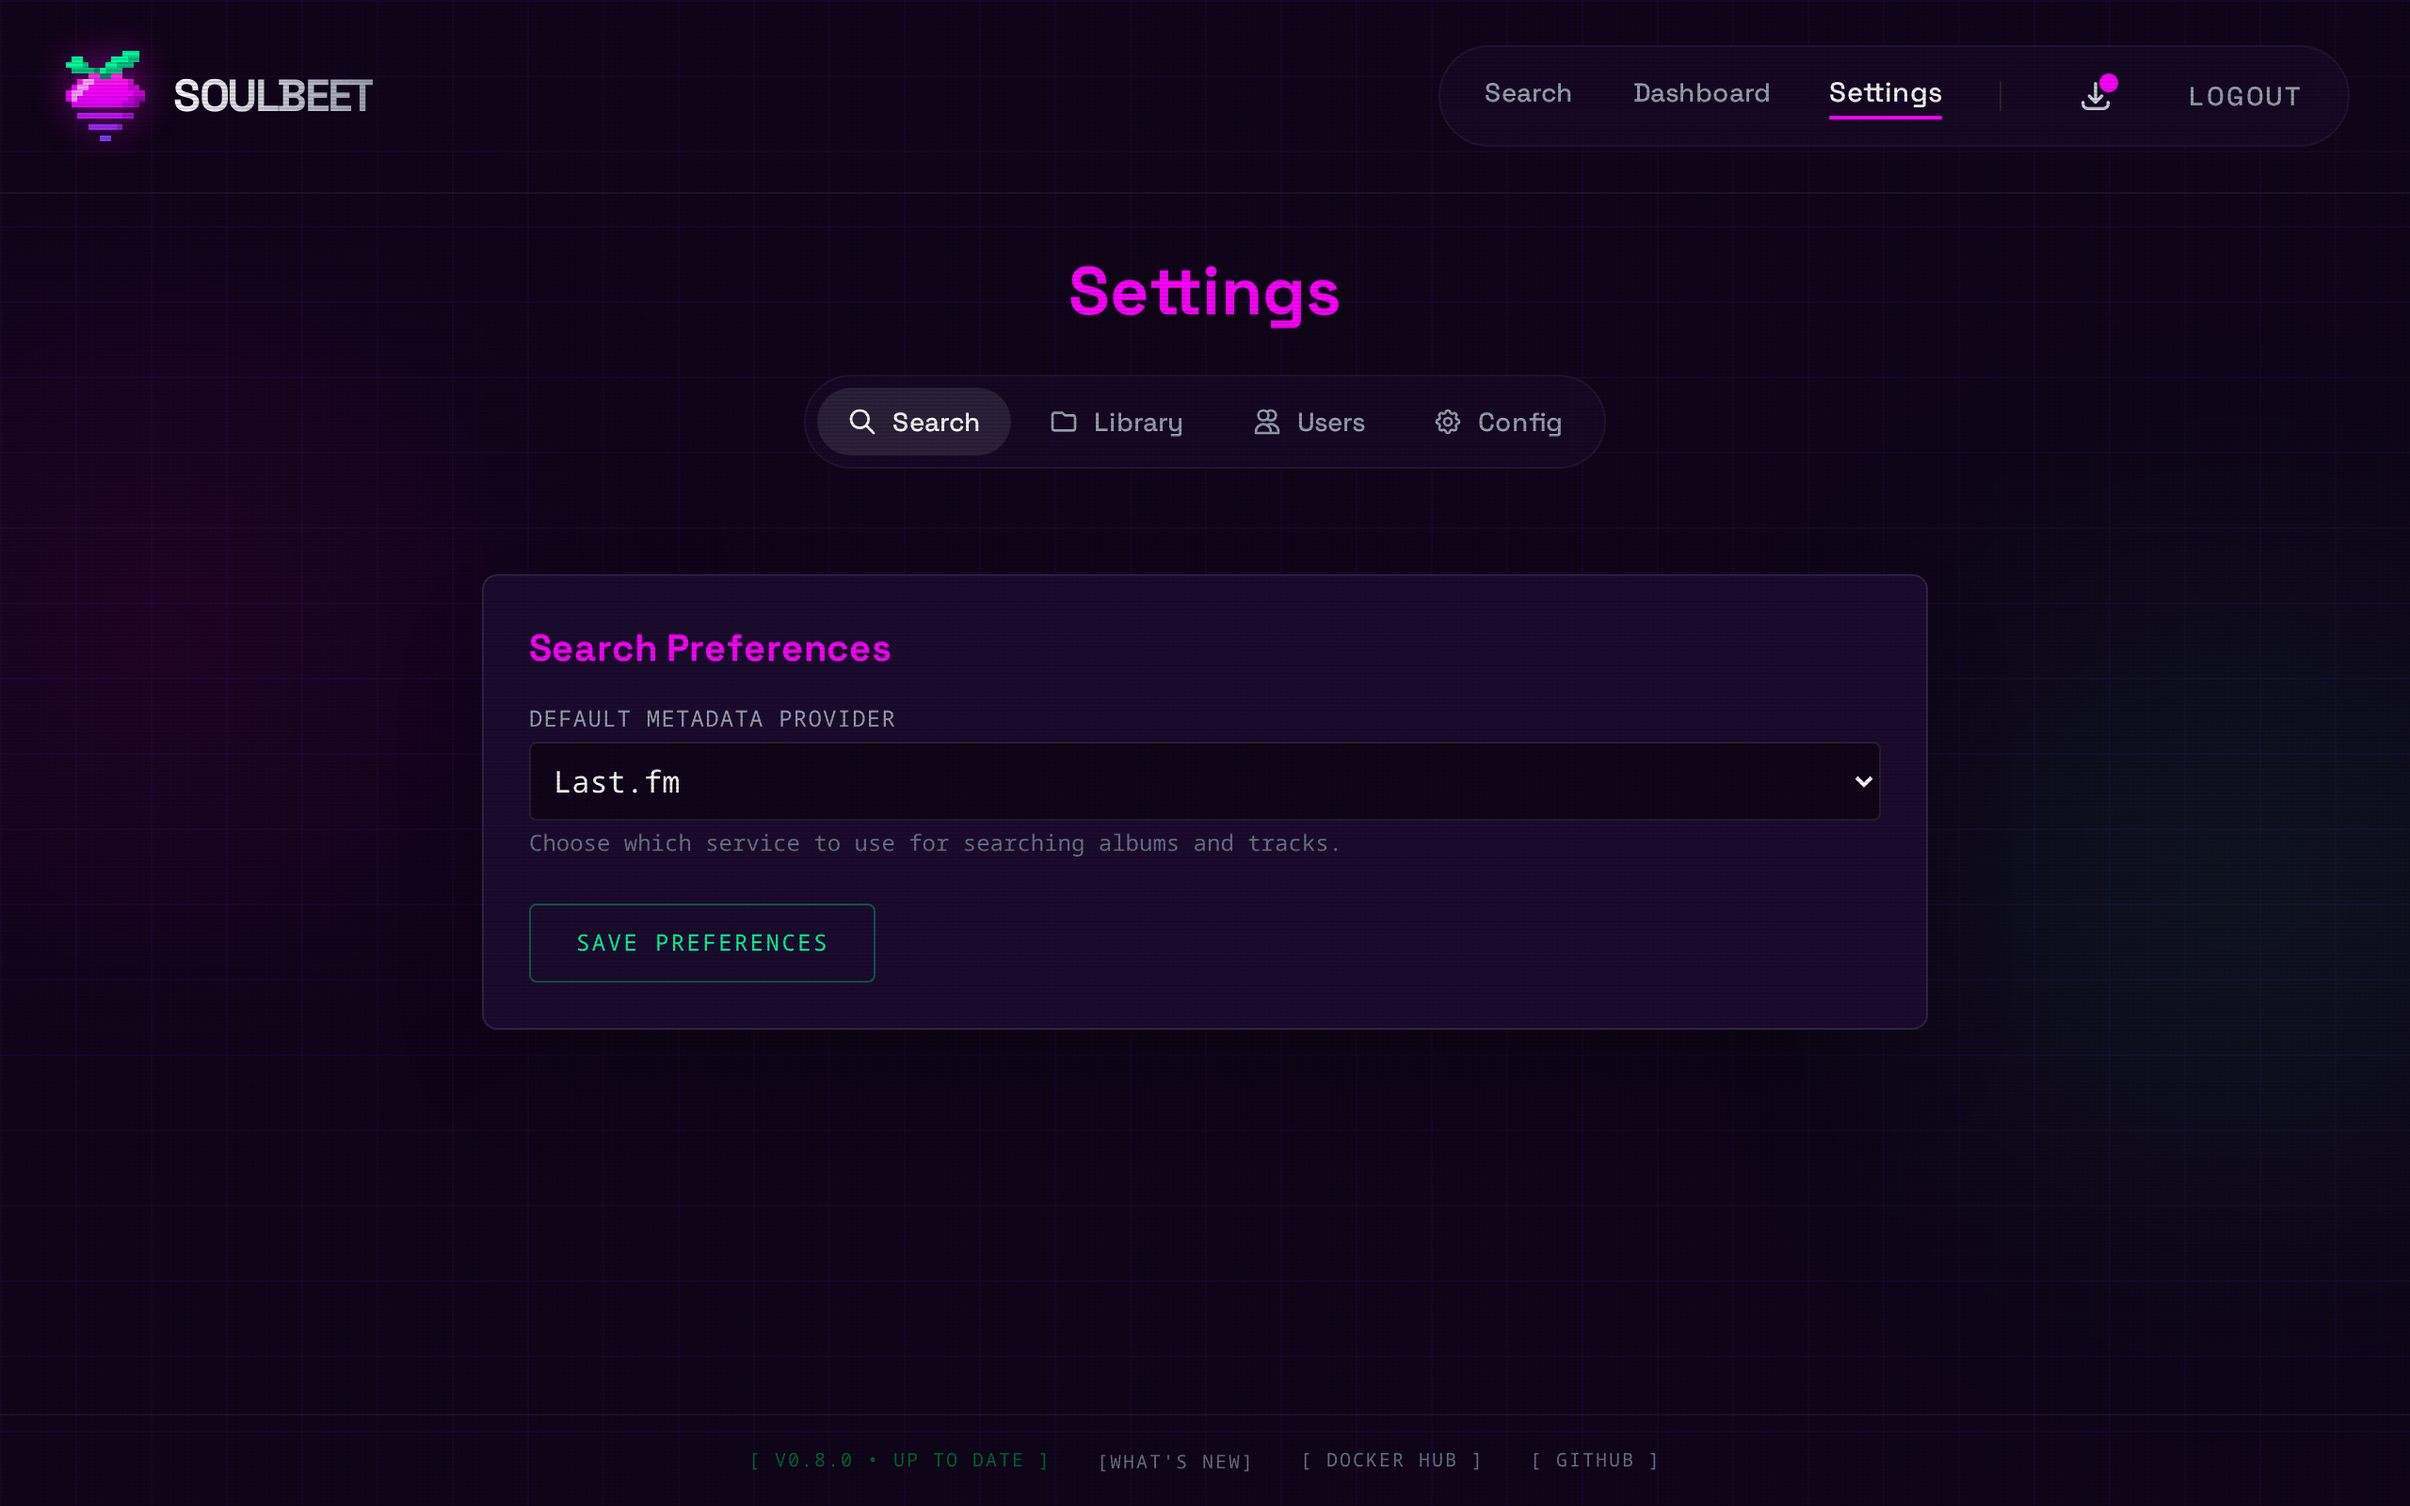
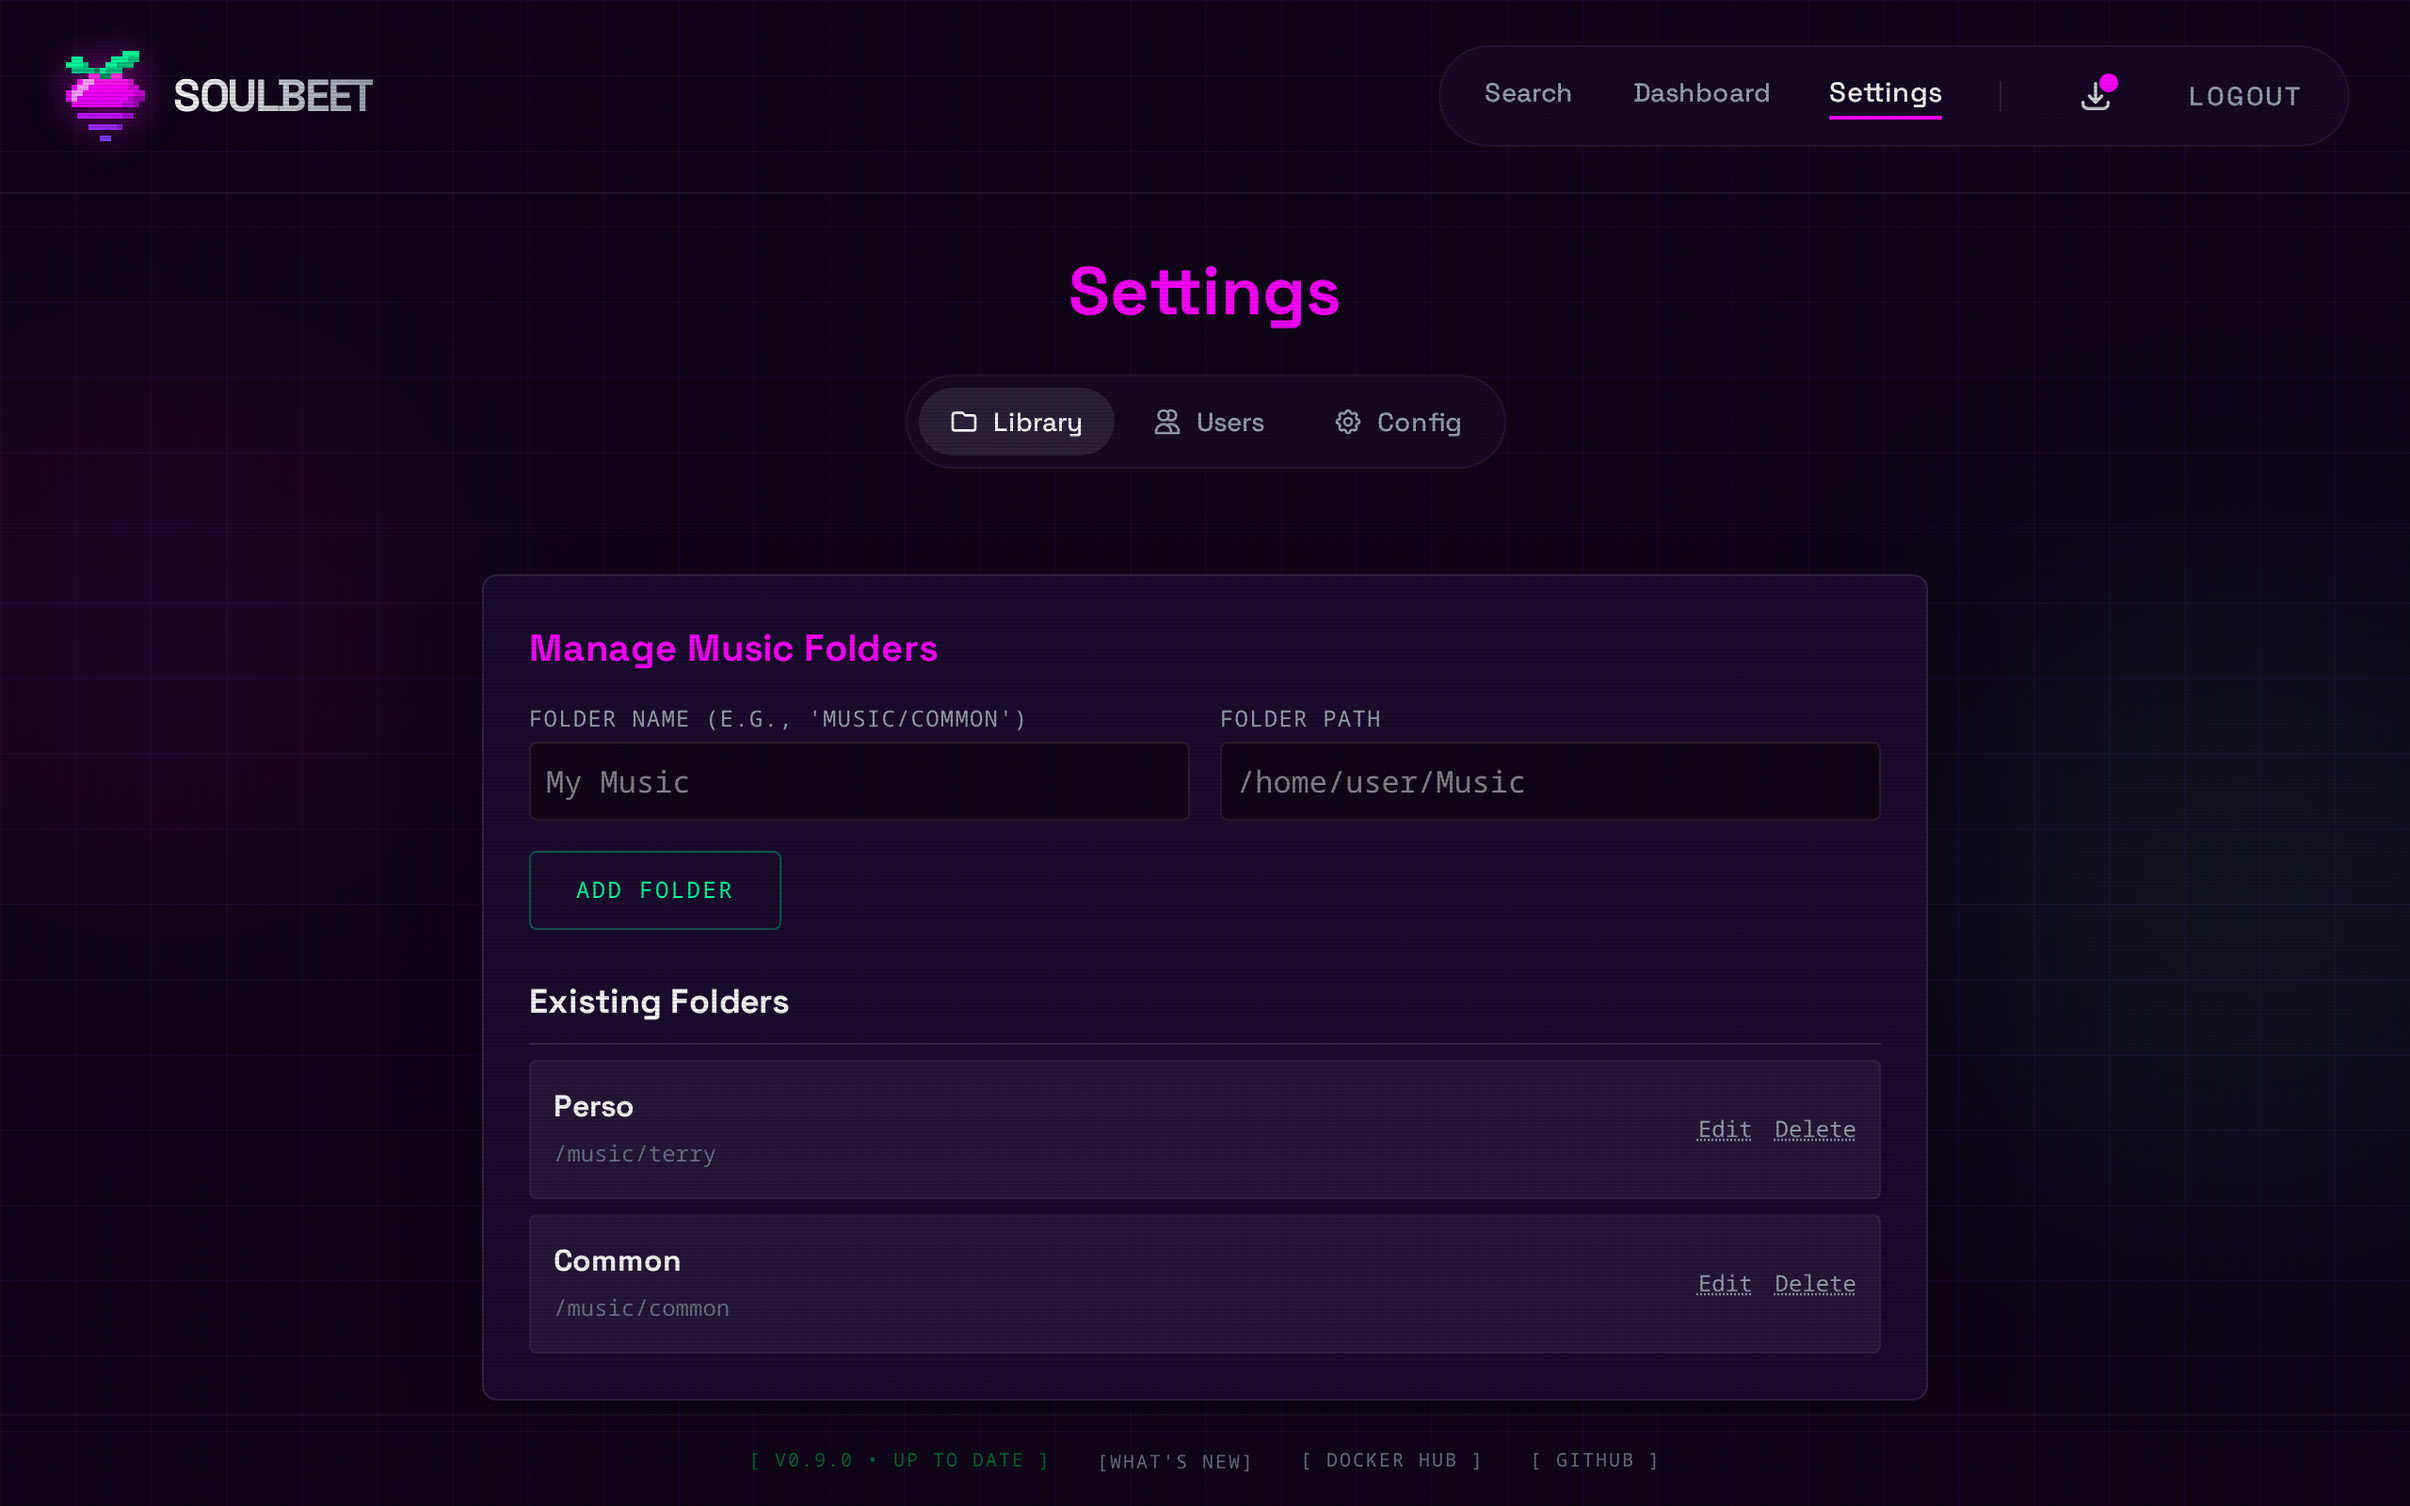
Retake the settings screenshot without the Search tab and keep unread release notes out of the pictures

diff --git a/e2e/screenshots/save.ts b/e2e/screenshots/save.ts
@@ -22,6 +22,9 @@ function required(name: string): string {
 
 /** Signs in as SHOTS_USER and shows the album results for SHOTS_QUERY. */
 export async function searchAsUser(page: Page): Promise<void> {
+  // Release notes the account has not read would open over the pictures.
+  // Answered here, so nothing is marked as read on the instance.
+  await page.route('**/api/changelog/seen', (route) => route.fulfill({ json: { major: 9999, minor: 0, patch: 0 } }));
   await loginViaUi(page, { username: required('SHOTS_USER'), password: required('SHOTS_PASSWORD') });
   await performSearch(page, required('SHOTS_QUERY'), 'ALBUM');
 }
